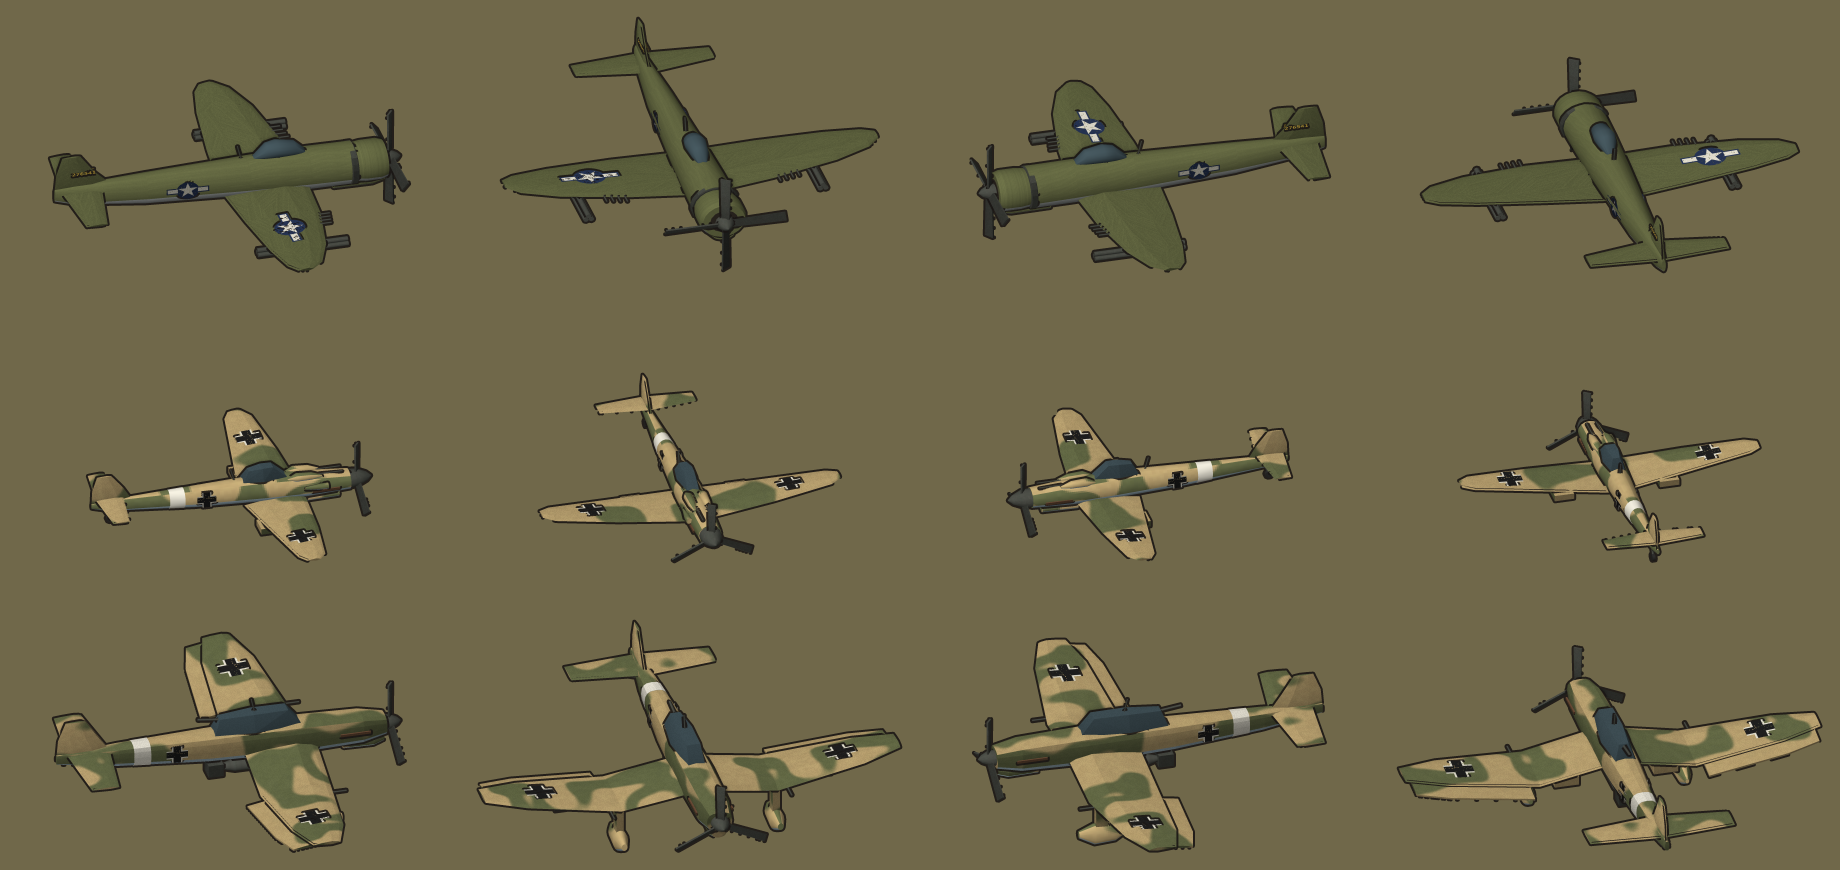
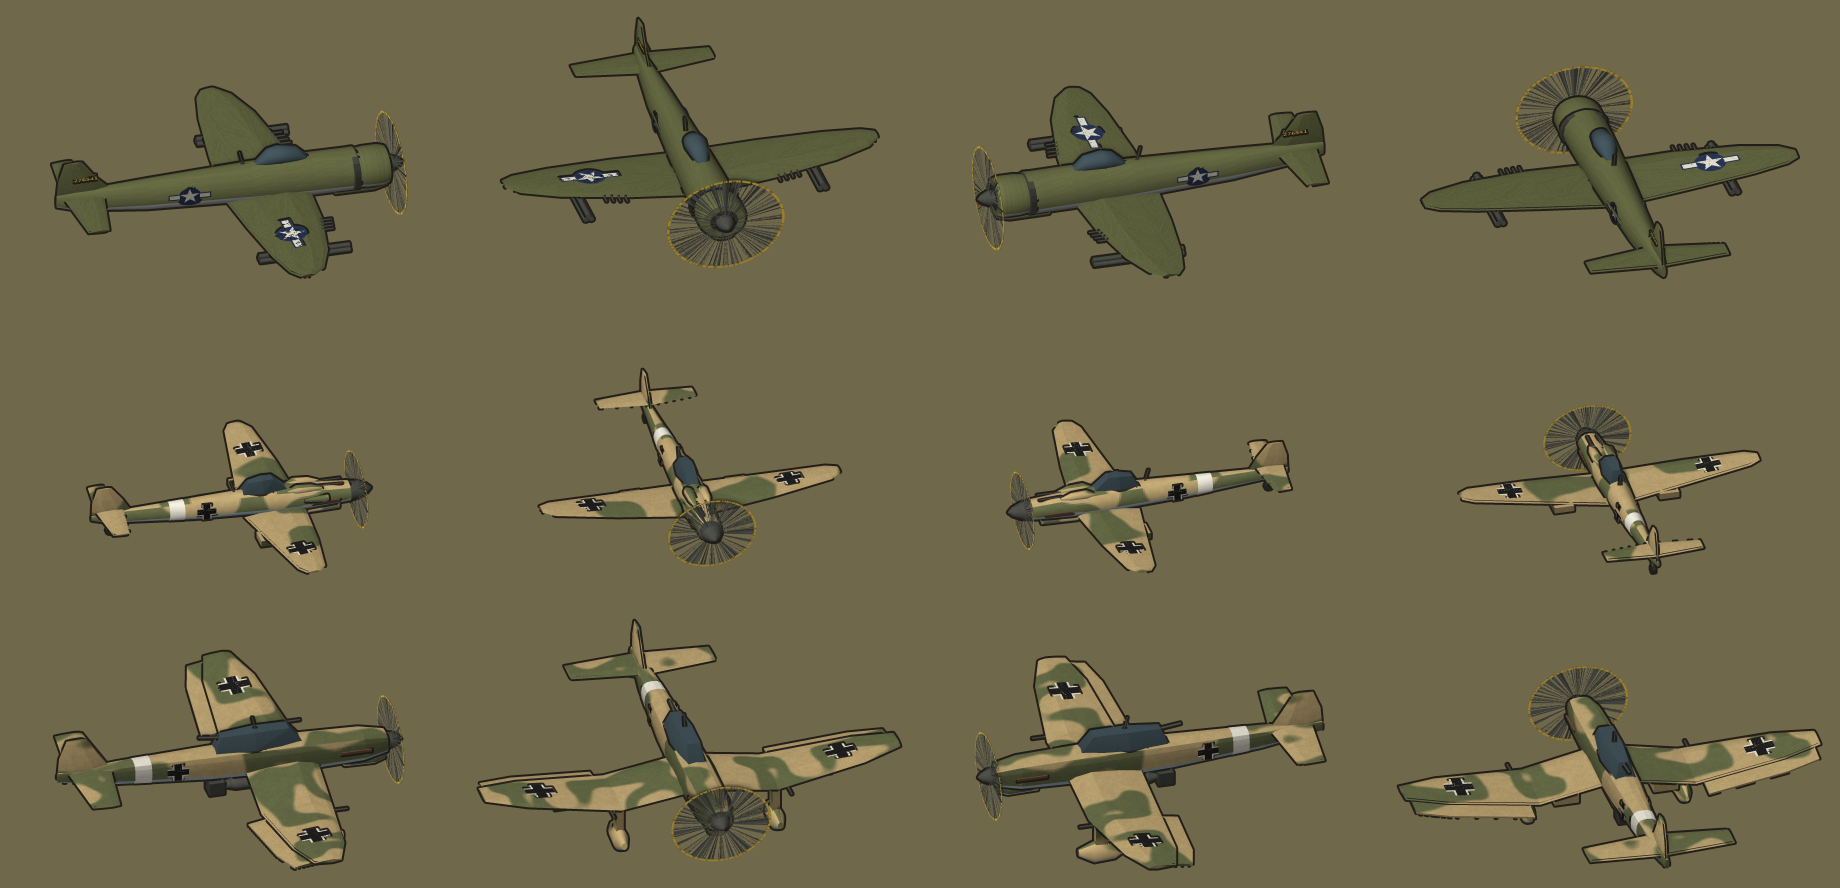
Aircraft: propellers drawn as blurred discs when the engines run
air_finish.spin() replaces each propeller's blades with a disc (decal prop_disc_3 / _4, both faces,
no outline): grey streaks denser where the blades smear, yellow tip ring. aircraft.finished(key,
spinning=False) keeps the blades; the blockouts are unchanged.

Workaround, logged: artkit has no partial transparency (a texel is solid or a hole), so the haze
is fine radial streaks that the renderer's smoothing averages. A translucent material belongs in
the engine repository as an option.

Claude-Session: https://claude.ai/code/session_01SsaPLQDekXsEizjPjPpB6H

diff --git a/tools/make_markings.py b/tools/make_markings.py
@@ -152,11 +152,29 @@ def corrugated(a, ridges=16):
     return np.clip(a * (1 + 0.16 * v)[:, None, None], 0, 255)
 
 
+def prop_disc(n=320, blades=3, seed=5):
+    """A turning propeller as the eye sees it: a faint grey disc, denser where the blades are smeared, a yellow ring at
+    the tips (blade-tip warning paint), clear in the middle where the spinner shows through.
+    WORKAROUND (logged in the project notes): artkit has no partial transparency, a texel is solid or a hole. So the
+    blur is drawn as fine radial streaks, solid or absent, which the renderer's own smoothing averages into a haze.
+    A real translucent material belongs in the engine repository, as an option."""
+    r_ = np.random.default_rng(seed + blades)
+    y, x = np.mgrid[0:n, 0:n]; c = (n - 1) / 2; r = np.hypot(x - c, y - c) / c; a = np.arctan2(y - c, x - c)
+    bins = 240; k = ((a + math.pi) / (2 * math.pi) * bins).astype(int) % bins
+    dens = 0.20 + 0.16 * (0.5 + 0.5 * np.cos(a * blades * 2))                       # share of streaks drawn at this angle
+    streak = r_.random(bins)[k] + (r_.random((n, n)) - 0.5) * 0.25 < dens            # mostly whole streaks, a little grain
+    on = streak & (r > 0.16) & (r < 0.93)
+    tip = (np.abs(r - 0.955) < 0.022) & (r_.random(bins)[k] < 0.7)
+    rgb = np.empty((n, n, 3)); rgb[:] = (84, 86, 80); rgb[tip] = (204, 170, 62)
+    return Image.fromarray(np.dstack([rgb, (on | tip) * 255]).astype(np.uint8), 'RGBA')
+
+
 def air():
     """Only the aircraft and parachute markings and paints: python3 tools/make_markings.py air"""
     os.makedirs(DEC, exist_ok=True)
     out = {'us_air_star': star_and_bar(), 'cabin_windows_7': windows(7), 'cabin_windows_5': windows(5),
            'us_navy': text('U.S. NAVY', BLACK, h=64), 'k_number': text('K-109', BLACK, h=64), 'us_tail_serial': text('276541', (204, 170, 62), h=32)}
+    out['prop_disc_3'] = prop_disc(blades=3); out['prop_disc_4'] = prop_disc(blades=4)
     for k, im in out.items(): im.save(os.path.join(DEC, k + '.png'))
     sand = mottle(cells=(4, 9))
     for name, arr in (('de_air', sand), ('de_air_corr', corrugated(mottle(cover=(2.0, 3.0)))),              # plain sand: blotches do not survive a 2.3 m tile

diff --git a/models/air_finish.py b/models/air_finish.py
@@ -224,11 +224,32 @@ def k_ship(m):
     return m
 
 
+def spin(m):
+    """Engines running: every propeller's blades become a blurred disc (decal prop_disc_<blades>, drawn on both
+    faces; the haze is fine streaks, see tools/make_markings.py prop_disc for why). The blockouts keep their blades; aircraft.finished(key, spinning=False) keeps them too."""
+    for name in [n for n in m.parts if n.endswith('_spinner')]:
+        pre = name[:-8]; hub = np.asarray(m.parts[name].turns[0], float)
+        blades = [n for n in m.parts if n.startswith(pre + '_blade')]
+        if not blades: continue
+        r = max(float(np.linalg.norm(m.parts[b].geom.P.reshape(-1, 3)[:, 1:] - hub[1:], axis=1).max()) for b in blades) / M
+        x = float(np.mean([m.parts[b].geom.P[..., 0].mean() for b in blades])) / M
+        for b in blades: del m.parts[b]
+        for sx, tag in ((1, 'front'), (-1, 'back')):
+            n = f'{pre}_disc_{tag}'
+            mark(m, n, f'prop_disc_{len(blades)}', (x, hub[1] / M, hub[2] / M), (sx, 0, 0), 2 * r, 2 * r, name,
+                 'the turning propeller: a blurred disc with a yellow tip ring, as a running engine looks')
+            g = m.parts[n].geom; one = np.ones(len(g), np.int8)
+            m.parts[n].geom = g._new(thin=one, low=one)              # a haze, not an object: it draws no outline
+            if 'envelope' in m.parts: m.parts[n].contact = ('envelope',)    # the square the disc is drawn on has empty corners; under the airship they reach into the envelope's outline, the disc itself does not
+    return m
+
+
 FINISH = {'p47': p47, 'bf109': bf109, 'ju87': ju87, 'b25': b25, 'c47': c47, 'ju52': ju52, 'k_ship': k_ship}
 
 
-def apply(m, key):
-    return FINISH[key](m)
+def apply(m, key, spinning=True):
+    m = FINISH[key](m)
+    return spin(m) if spinning else m
 
 
 # ---------------------------------------------------------------- paint

diff --git a/models/aircraft.py b/models/aircraft.py
@@ -479,7 +479,8 @@ ALL = [('fighter', 'P-47D Thunderbolt', p47), ('fighter', 'Bf 109 G-6', bf109), 
        ('transport', 'C-47 Skytrain', c47), ('transport', 'Ju 52/3m', ju52), ('airship', 'K-class blimp', k_ship)]
 
 
-def finished(key):
-    """The blockout with its finishing pass and paint (models/air_finish.py): what the game would export."""
+def finished(key, spinning=True):
+    """The blockout with its finishing pass and paint (models/air_finish.py): what the game would export.
+    spinning: propellers as blurred discs (engines running); False keeps the blades."""
     from . import air_finish
-    return air_finish.paint(air_finish.apply(BLOCKOUT[key](), key), key)
+    return air_finish.paint(air_finish.apply(BLOCKOUT[key](), key, spinning), key)
